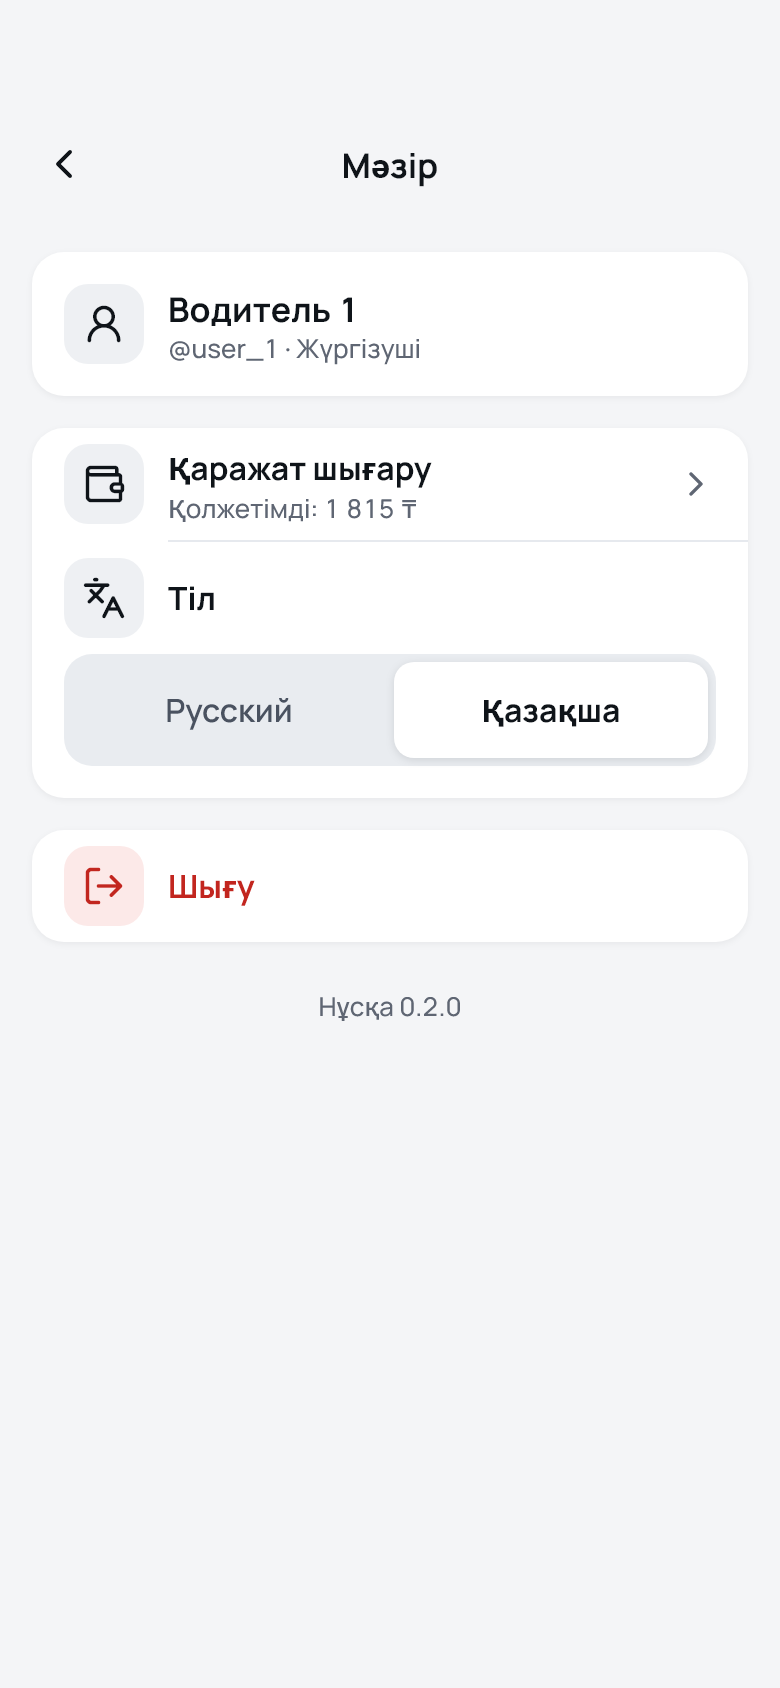
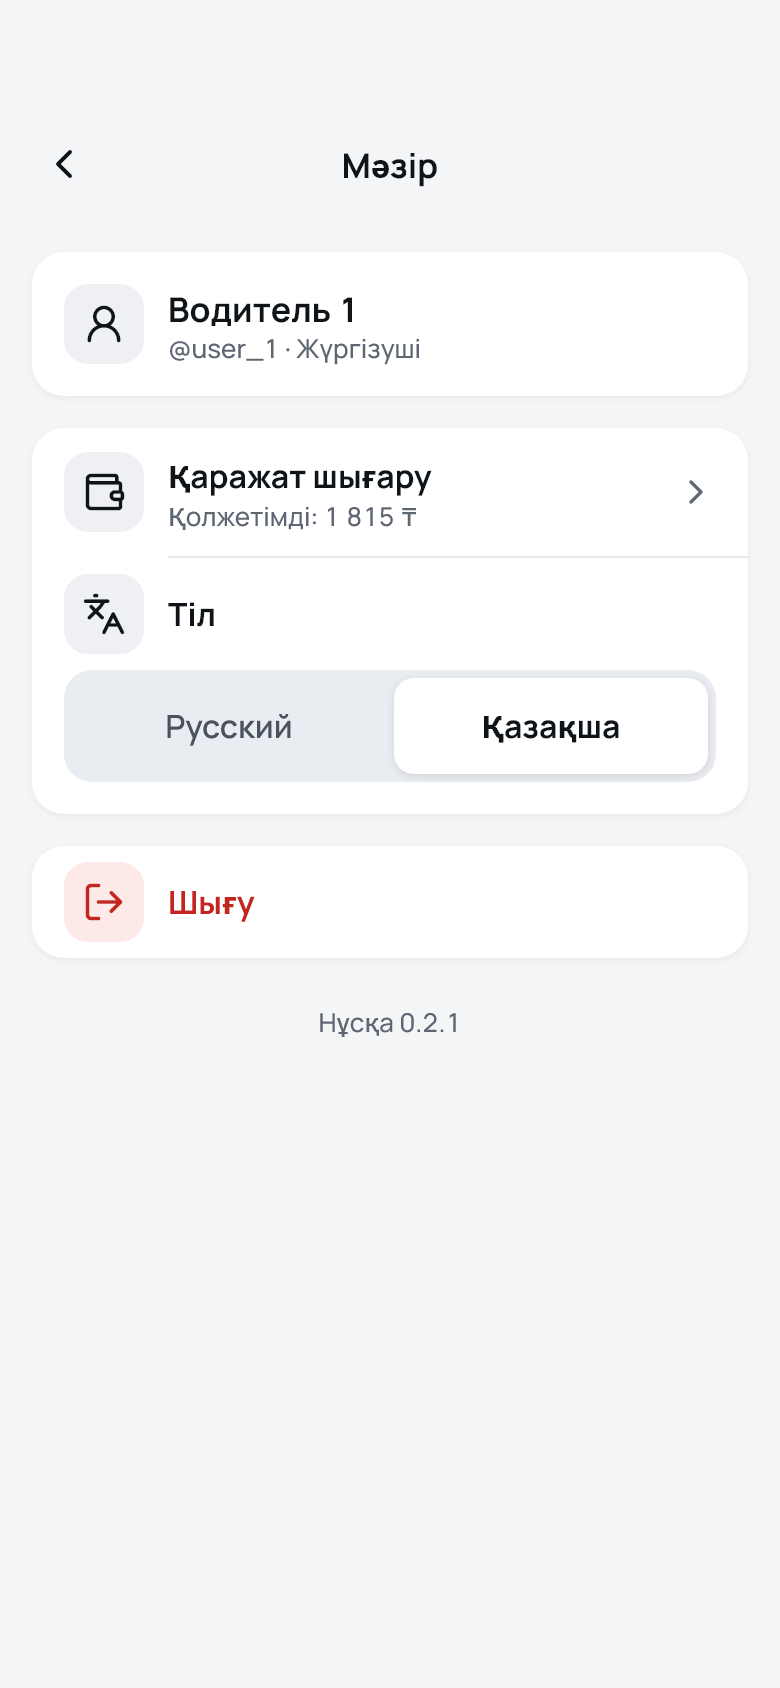
docs: v2.0.1 — README links and screenshots, emulator check against prod

diff --git a/README.md b/README.md
@@ -17,9 +17,9 @@
 |---|---|---|---|
 | <img src="docs/screenshots/login_ru.png" width="180"> | <img src="docs/screenshots/day_light.png" width="180"> | <img src="docs/screenshots/withdraw_ru.png" width="180"> | <img src="docs/screenshots/admin_trips_all_ru.png" width="180"> |
 
-**Скачать APK для Android:** [driver-diary.apk (v2.0.0)](https://github.com/alisherizmukhan/arqa-demo/releases/download/v2.0.0/driver-diary.apk) (все релизы — на странице [Releases](https://github.com/alisherizmukhan/arqa-demo/releases)). Приложение работает с развёрнутым API, ничего настраивать не нужно. Войдите демо-аккаунтом: `user_1` / `password_1` (водитель) или `admin` / `admin` (администратор), полный список — в разделе «Демо-аккаунты».
+**Скачать APK для Android:** [driver-diary.apk (v2.0.1)](https://github.com/alisherizmukhan/arqa-demo/releases/download/v2.0.1/driver-diary.apk) (все релизы — на странице [Releases](https://github.com/alisherizmukhan/arqa-demo/releases)). Приложение работает с развёрнутым API, ничего настраивать не нужно. Войдите демо-аккаунтом: `user_1` / `password_1` (водитель) или `admin` / `admin` (администратор), полный список — в разделе «Демо-аккаунты».
 
-> **Старые сборки больше не работают с сервером.** С версии 2.0 API требует вход, а APK v0.1.0 и код по тегу `v1.0` (сдача до этапа аккаунтов) входить не умеют: их запросы получают 401. Ставьте v2.0.0.
+> **Старые сборки больше не работают с сервером.** С версии 2.0 API требует вход, а APK v0.1.0 и код по тегу `v1.0` (сдача до этапа аккаунтов) входить не умеют: их запросы получают 401. Ставьте v2.0.1.
 
 ### Демо-видео
 
@@ -118,7 +118,7 @@ $env:_ = "$env:APPDATA\npm\node_modules\@railway\cli\bin\railway.exe"; railway c
 
 ### Мобильное приложение
 
-Самый быстрый способ — установить [APK](https://github.com/alisherizmukhan/arqa-demo/releases/download/v2.0.0/driver-diary.apk) (см. ниже). Чтобы собрать из исходников:
+Самый быстрый способ — установить [APK](https://github.com/alisherizmukhan/arqa-demo/releases/download/v2.0.1/driver-diary.apk) (см. ниже). Чтобы собрать из исходников:
 
 ```bash
 flutter pub get          # из корня репозитория (pub workspace)
@@ -133,7 +133,7 @@ flutter run              # на первом найденном устройст
 
 **Установить готовый APK на телефон:**
 
-1. Скачайте [driver-diary.apk](https://github.com/alisherizmukhan/arqa-demo/releases/download/v2.0.0/driver-diary.apk) на телефон.
+1. Скачайте [driver-diary.apk](https://github.com/alisherizmukhan/arqa-demo/releases/download/v2.0.1/driver-diary.apk) на телефон.
 2. Откройте файл. Android попросит разрешить установку из этого источника (браузера или «Файлов») — разрешите.
 3. Нажмите «Установить», затем «Открыть». Появится экран входа: введите `user_1` / `password_1`, и откроется день с поездками. Язык переключается кнопками «Русский» / «Қазақша» вверху.
 
@@ -409,11 +409,15 @@ curl -s -X POST $API/withdrawals -H "Authorization: Bearer $TOKEN" \
 - **Доступность.**
   - Цели нажатия не меньше 48 dp, у всех элементов есть подписи для скринридера.
   - Контраст по WCAG AA в обеих темах.
-  - Матрица вёрстки: 360 и 390 dp, масштаб текста 1.0 и 1.3, русский и казахский. Тест падает при любом переполнении или обрезанном тексте.
+  - Матрица вёрстки: 360 и 390 dp, масштаб текста 1.0, 1.15 и 1.3, русский и казахский. Тест падает при любом переполнении, обрезанном тексте или элементе не своей высоты.
+- **Стабильная вёрстка** (`DESIGN.md` §10, v2.0.1). Кнопки, поля, вкладки и строки списков держат свою высоту при любой длине подписи и крупном шрифте.
+  - Подпись всегда в одну строку: она ужимается до 85 %, затем берётся короткая форма («+1» вместо «+1 день») и только потом «…».
+  - Суммы и время никогда не обрезаются; масштаб текста ограничен ×1.3.
+  - Это проверяют три теста: каждый компонент кита с короткой и втрое длинной подписью, матрица экранов и строгий аудит в CI.
 - **CI** (`.github/workflows/ci.yml`) — три задачи:
   - бэкенд: ruff, mypy, pytest с настоящим Postgres, покрытие ≥ 95 %;
   - дизайн-кит: analyze, формат, тесты;
-  - приложение: актуальность кодогенерации, запрет «сырых» цветов и стилей, запрет кириллицы вне локализаций, analyze, формат, тесты, скриншоты всех состояний.
+  - приложение: актуальность кодогенерации, запрет «сырых» цветов и стилей, запрет кириллицы вне локализаций, analyze, формат, тесты, скриншоты всех состояний, аудит стабильности вёрстки.
 
 ---
 

diff --git a/docs/DEPLOY_CHECK.md b/docs/DEPLOY_CHECK.md
@@ -308,3 +308,29 @@ Note from the run: at 360-ish widths the third chip «Водитель 2» is pa
 - One transaction (`BEGIN … COMMIT`, `ON_ERROR_STOP`), a `DO` block that deletes the row matching id, amount 200 327, status `rejected` and reason «g», and raises (so rolls back) unless exactly 1 row was deleted. Result: `NOTICE: deleted 1 withdrawal`, `COMMIT`.
 - Checked from a new connection: trips **133**, withdrawals **1 → 0**.
 - After: user_1 `GET /balance` → available **200 327** (card 258 450, commission 58 123, withdrawn 0), `GET /withdrawals` → `[]`.
+
+## Release v2.0.1 (2026-10-12)
+
+The UI stability fixes (DESIGN.md §10) and their guard tests. Mobile app only: the backend is unchanged and was not deployed.
+
[1 lines of base64/hex data omitted]
+- Installed over v2.0.0 on the Android emulator (`Medium_Phone_API_37.0`, 1080×2400), app data cleared, against prod.
+- The same read-only check as for v2.0.0. No trips or withdrawals were created, no withdrawal was decided. The two logins opened two sessions, both closed with «Шығу».
+- Screenshots: `docs/design/release_check/v2.0.1/`.
+
+| Step | Seen on the device | |
+|---|---|---|
+| Start | login screen, «Русский» selected | ✅ `01_login` |
+| Sign in `user_1` / `password_1` (first try) | Day screen, today (12 October) empty | ✅ `02_day_today` |
+| ‹ ×11 → 1 October | net **3 315 ₸**, revenue 3 900, commission −585, «Наличные · 38%» 1 500 / «Карта · 62%» 2 400, 2 trips | ✅ `03_user1_oct1_ru` |
+| Menu | «Водитель 1», «@user_1 · Водитель», «Вывод средств · Доступно 200 327 ₸», «Версия 0.2.1» | ✅ `04_menu_ru` |
+| «Қазақша» in the menu | applied at once: «Мәзір», «Қолжетімді: 200 327 ₸», «Нұсқа 0.2.1» | ✅ `05_menu_kk` |
+| «Қаражат шығару» (not sent) | balance 200 327 (card 258 450, commission −58 123, withdrawn 0); history empty after the cleanup above | ✅ `06_withdraw_kk` |
+| Back to the day | «Қолға 3 315 теңге», «2026 ж. 1 қазан» | ✅ `07_user1_oct1_kk` |
+| «Шығу» → confirm | dialog «Аккаунттан шығу керек пе?», then the login screen in Kazakh | ✅ `08`, `09` |
+| Sign in `admin` / `admin` | admin screen, the new short tabs «Сапарлар / Шығару / Жүргізуші» on one line | ✅ `10_admin_today_kk` |
+| ‹ ×11 → 1 October, all drivers | **7 395 ₸**, revenue 8 700, commission −1 305, 4 trips, rows labelled «Водитель 1» / «Водитель 2» | ✅ `11_admin_all_oct1_kk` |
+| Chip «Водитель 2» | **4 080 ₸**, revenue 4 800, commission −720, 2 trips | ✅ `12_admin_driver2_oct1_kk` |
+| Tab «Шығару» (view only) | «Өңделуде» filter, «Өтінім жоқ» | ✅ `13_admin_withdrawals_kk` |
+| «Шығу» → confirm, «Русский» | login screen in Russian | ✅ `14_logged_out_ru` |
+
